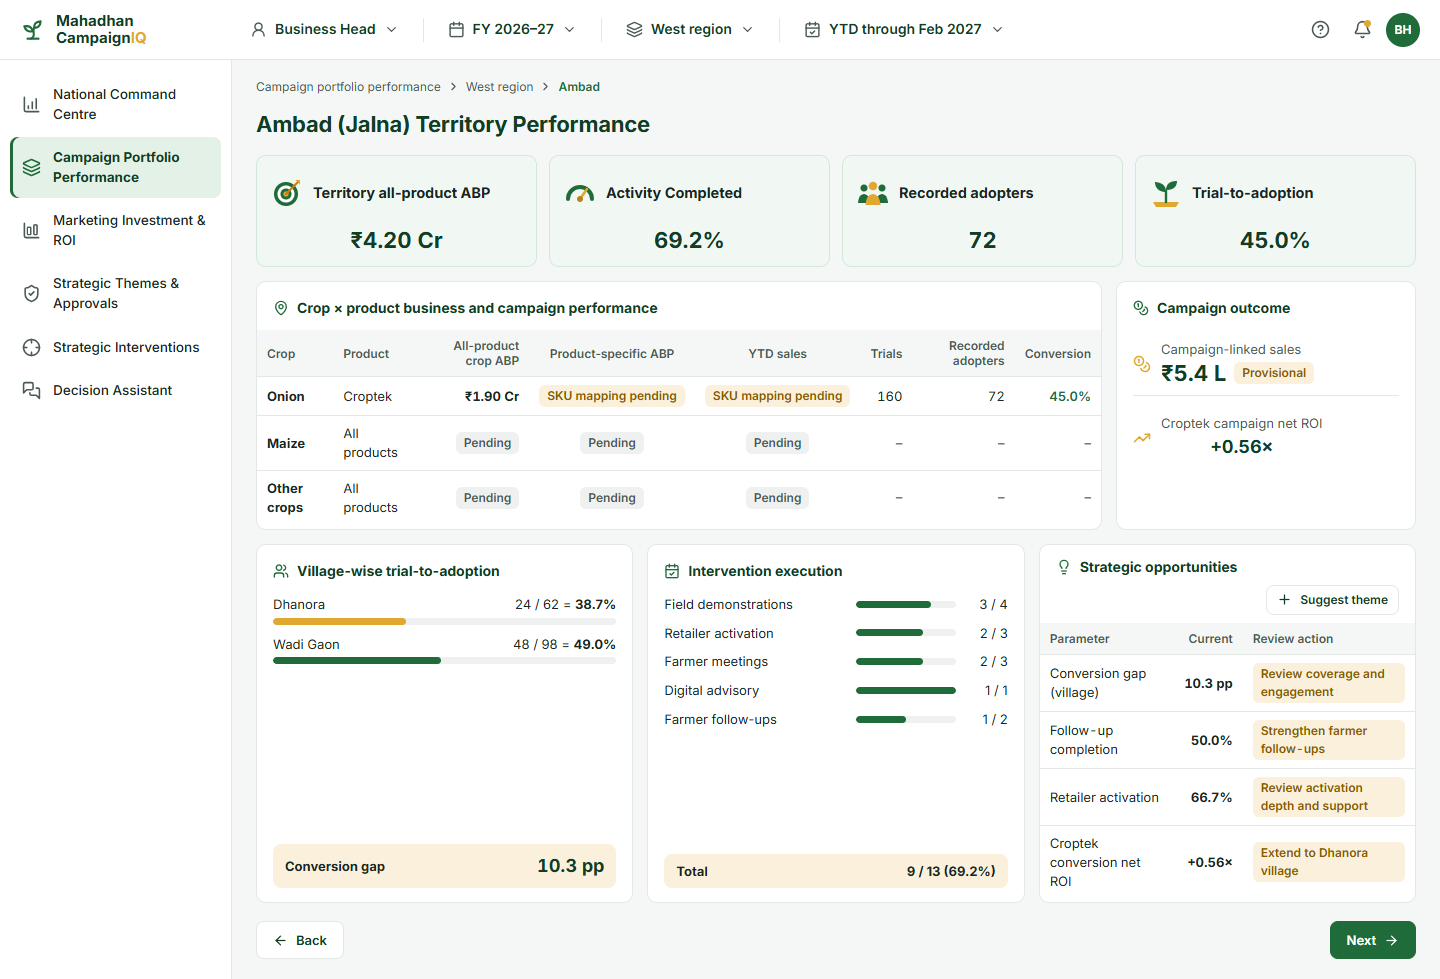
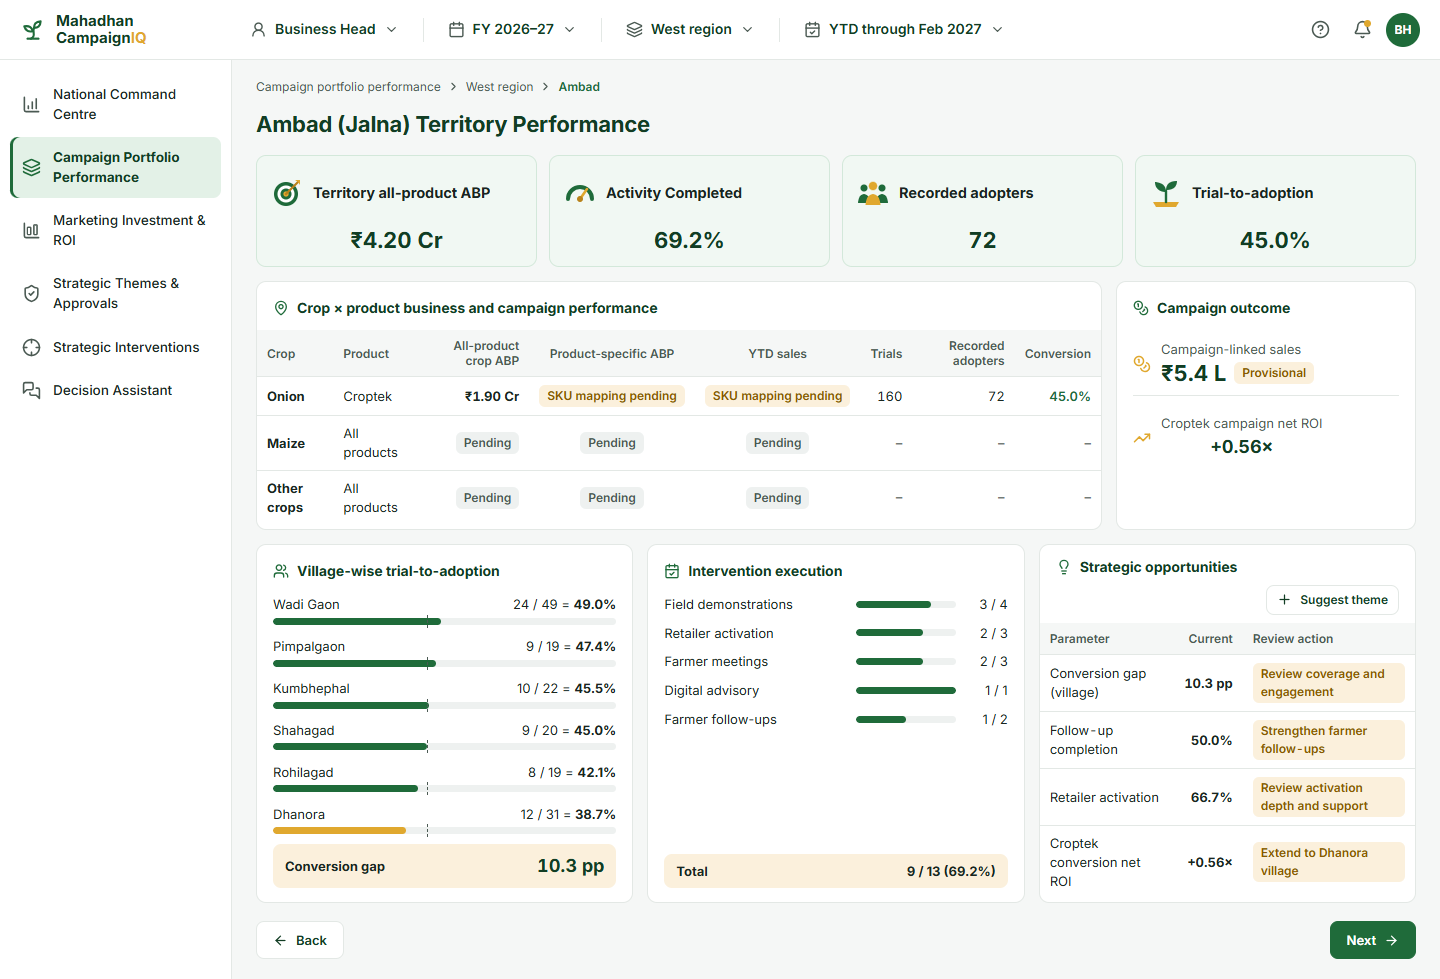
BH: more villages in Ambad trial-to-adoption

diff --git a/campaigniq-v3/src/screens/Interventions.tsx b/campaigniq-v3/src/screens/Interventions.tsx
@@ -256,7 +256,7 @@ export function DecisionAssistant() {
     priorities: [
       { n: '1', title: `${gapRegion.name} region`, evidence: `${crore(regionMetrics(gapRegion).gap, 1)} YTD business ABP gap`, status: 'Review', tone: 'warn', action: 'Review market opportunity', to: R.opportunity },
       { n: '2', title: 'West Croptek conversion', evidence: `${croptek.adopters} adopters / ${croptek.adoptionTarget} checkpoint target = ${pct(cm.adoptionPct, 0)}`, status: 'Provisional', tone: 'neutral', action: 'Review existing theme performance', to: R.effectiveness('west', 'croptek') },
-      { n: '3', title: 'Ambad village gap', evidence: `${a.villages.map((v) => `${v.name} ${pct(v.pct)}`).join(' vs ')} = ${a.villageGap.toFixed(1)} pp`, status: 'Validation required', tone: 'warn', action: 'Validate intervention evidence', to: R.territory('ambad') },
+      { n: '3', title: 'Ambad village gap', evidence: `${a.lowest.name} ${pct(a.lowest.pct)} vs ${a.highest.name} ${pct(a.highest.pct)} = ${a.villageGap.toFixed(1)} pp`, status: 'Validation required', tone: 'warn', action: 'Validate intervention evidence', to: R.territory('ambad') },
     ],
     growth: [...REGIONS].sort((x, y) => regionMetrics(y).gap - regionMetrics(x).gap).map((r, i) => ({ n: String(i + 1), title: `${r.name} region`, evidence: `${crore(regionMetrics(r).gap, 1)} gap · ${pct(regionMetrics(r).achievementPct)} of ABP`, status: pp(regionMetrics(r).execVariance) + ' execution', tone: 'warn' as Tone, action: 'Open regional performance', to: R.region(r.id) })),
     campaigns: [...CAMPAIGNS].sort((x, y) => campaignMetrics(x).execVariance - campaignMetrics(y).execVariance).map((c, i) => ({ n: String(i + 1), title: c.name, evidence: `${pp(campaignMetrics(c).execVariance)} execution · ${pct(campaignMetrics(c).adoptionPct, 0)} of adoption target`, status: campaignMetrics(c).adoptionPct < 75 ? 'Review' : 'On watch', tone: (campaignMetrics(c).adoptionPct < 75 ? 'warn' : 'ok') as Tone, action: 'Open campaign diagnostics', to: R.diagnostics(c.region, c.id) })),
@@ -294,7 +294,7 @@ export function DecisionAssistant() {
                 <div className="card" style={{ padding: '10px 14px', gap: 8 }}>
                   <b className="strong">Ambad adoption ({PERIOD}) – reference</b>
                   <div className="row" style={{ gap: 16 }}>
-                    <div style={{ flex: 1 }}><HBars labelWidth={90} max={60} format={(v) => pct(v)} rows={[...a.villages].reverse().map((v) => ({ label: v.name, values: [v.pct], highlight: v.pct < 45 ? 0 : undefined }))} series={[{ key: 'p', label: 'Trial-to-adoption', color: SERIES.planned }]} /></div>
+                    <div style={{ flex: 1 }}><HBars labelWidth={90} max={60} format={(v) => pct(v)} rows={[a.highest, a.lowest].map((v) => ({ label: v.name, values: [v.pct], highlight: v.pct < 45 ? 0 : undefined }))} series={[{ key: 'p', label: 'Trial-to-adoption', color: SERIES.planned }]} /></div>
                     <StatusChip tone="ok">{a.villageGap.toFixed(1)} pp gap</StatusChip>
                   </div>
                 </div>

diff --git a/campaigniq-v3/src/screens/TerritoryPerformance.tsx b/campaigniq-v3/src/screens/TerritoryPerformance.tsx
@@ -2,7 +2,7 @@
 import { CalendarCheck, Coins, Lightbulb, MapPin, Plus, TrendingUp, Users } from 'lucide-react';
 import { Navigate, useParams } from 'react-router-dom';
 import { AMBAD, ambadMetrics, campaignById, netRoi, territoryById } from '../data/bh';
-import { crore, lakh, num, pct, ratio, times } from '../data/format';
+import { crore, lakh, num, pct, pp, ratio, times } from '../data/format';
 import { R } from '../routes';
 import { useBhStore } from '../store/bhStore';
 import { Bar, Breadcrumb, Button, Card, FooterBar, KpiCard, PageHeader, StatusChip } from '../ui/core';
@@ -62,12 +62,20 @@ export function TerritoryPerformance() {
 
       <div className="grid g3">
         <Card title="Village-wise trial-to-adoption" icon={Users}>
-          {a.villages.map((v, i) => (
-            <div key={v.name} style={{ display: 'flex', flexDirection: 'column', gap: 4 }}>
-              <div className="row" style={{ justifyContent: 'space-between' }}><span>{v.name}</span><span>{v.adopters} / {v.trials} = <b>{pct(v.pct)}</b></span></div>
-              <Bar value={v.pct} tone={i === 0 ? 'amber' : 'brand'} />
-            </div>
-          ))}
+          <div style={{ flex: 1, display: 'flex', flexDirection: 'column', justifyContent: 'space-between', gap: 8 }}>
+            {a.villagesSorted.map((v) => {
+              const diff = v.pct - a.trialToAdoptionPct;
+              return (
+                <div key={v.name} title={`${v.name} · Trials ${v.trials} · Adopters ${v.adopters} · ${pct(v.pct)} (${pp(diff, 1)} vs territory)`} style={{ display: 'flex', flexDirection: 'column', gap: 4 }}>
+                  <div className="row" style={{ justifyContent: 'space-between' }}><span>{v.name}</span><span>{v.adopters} / {v.trials} = <b>{pct(v.pct)}</b></span></div>
+                  <div style={{ position: 'relative' }}>
+                    <Bar value={v.pct} tone={v.name === a.lowest.name ? 'amber' : 'brand'} />
+                    <span style={{ position: 'absolute', top: -3, bottom: -3, left: `${a.trialToAdoptionPct}%`, borderLeft: '1.5px dashed var(--ink-soft)' }} />
+                  </div>
+                </div>
+              );
+            })}
+          </div>
           <div className="row" style={{ justifyContent: 'space-between', background: 'var(--amber-soft)', borderRadius: 8, padding: '8px 12px', marginTop: 'auto' }}><b>Conversion gap</b><b className="kpi-value" style={{ fontSize: 18 }}>{a.villageGap.toFixed(1)} pp</b></div>
         </Card>
         <Card title="Intervention execution" icon={CalendarCheck}>

diff --git a/campaigniq-v3/src/data/bh.ts b/campaigniq-v3/src/data/bh.ts
@@ -241,8 +241,12 @@ export const AMBAD = {
   onionAbp: 190, // lakh, all-product onion ABP
   campaignLinkedSales: 5.4, // lakh, provisional
   villages: [
-    { name: 'Dhanora', adopters: 24, trials: 62 },
-    { name: 'Wadi Gaon', adopters: 48, trials: 98 },
+    { name: 'Wadi Gaon', adopters: 24, trials: 49 },
+    { name: 'Pimpalgaon', adopters: 9, trials: 19 },
+    { name: 'Kumbhephal', adopters: 10, trials: 22 },
+    { name: 'Shahagad', adopters: 9, trials: 20 },
+    { name: 'Rohilagad', adopters: 8, trials: 19 },
+    { name: 'Dhanora', adopters: 12, trials: 31 },
   ],
   interventions: [
     { name: 'Field demonstrations', done: 3, planned: 4 },
@@ -273,6 +277,10 @@ export const ambadMetrics = () => {
     adopters,
     trialToAdoptionPct: ratio(adopters, trials),
     villages: villagePct,
+    /** villages sorted by trial-to-adoption, highest first */
+    villagesSorted: [...villagePct].sort((x, y) => y.pct - x.pct),
+    highest: [...villagePct].sort((x, y) => y.pct - x.pct)[0],
+    lowest: [...villagePct].sort((x, y) => x.pct - y.pct)[0],
     villageGap: Math.max(...pcts) - Math.min(...pcts),
     followUpPct: ratio(AMBAD.interventions[4].done, AMBAD.interventions[4].planned),
     retailerActivationPct: ratio(AMBAD.interventions[1].done, AMBAD.interventions[1].planned),

diff --git a/campaigniq-v3/src/screens/Effectiveness.tsx b/campaigniq-v3/src/screens/Effectiveness.tsx
@@ -147,7 +147,7 @@ function Diagnostics({ c, onClose }: { c: Campaign; onClose: () => void }) {
   ];
   const drivers = [
     ...AMBAD.interventions.map((i) => { const p = ratio(i.done, i.planned); return { id: i.name, driver: i.name, progress: `${i.done} / ${i.planned}`, status: <StatusChip tone={p >= 75 ? 'ok' : 'warn'}>{pct(p, p % 1 ? 1 : 0)}</StatusChip> }; }),
-    { id: 'gap', driver: `Village conversion gap (${a.villages.map((v) => `${v.name} ${pct(v.pct)}`).join(' vs ')})`, progress: `${a.villageGap.toFixed(1)} pp`, status: <StatusChip tone="warn">Review</StatusChip> },
+    { id: 'gap', driver: `Village conversion gap (${a.lowest.name} ${pct(a.lowest.pct)} vs ${a.highest.name} ${pct(a.highest.pct)})`, progress: `${a.villageGap.toFixed(1)} pp`, status: <StatusChip tone="warn">Review</StatusChip> },
     { id: 'attr', driver: 'Sales attribution', progress: lakh(c.sales), status: <StatusChip tone="ok">Complete</StatusChip> },
   ];
   const achievement = [

diff --git a/campaigniq-v3/src/data/bh.test.ts b/campaigniq-v3/src/data/bh.test.ts
@@ -90,7 +90,9 @@ describe('territories and Ambad', () => {
     const a = ambadMetrics();
     expect([a.activitiesDone, a.activitiesPlanned, r1(a.activityPct)]).toEqual([9, 13, 69.2]);
     expect([a.trials, a.adopters, r1(a.trialToAdoptionPct)]).toEqual([160, 72, 45]);
-    expect(a.villages.map((v) => r1(v.pct))).toEqual([38.7, 49]);
+    expect(a.villagesSorted.map((v) => r1(v.pct))).toEqual([49, 47.4, 45.5, 45, 42.1, 38.7]);
+    expect([a.highest.name, a.lowest.name]).toEqual(['Wadi Gaon', 'Dhanora']);
+    expect([sum(AMBAD.villages, (v) => v.adopters), sum(AMBAD.villages, (v) => v.trials)]).toEqual([72, 160]);
     expect(r1(a.villageGap)).toBe(10.3);
     expect(AMBAD.cropRows[0].adopters).toBe(a.adopters);
   });
